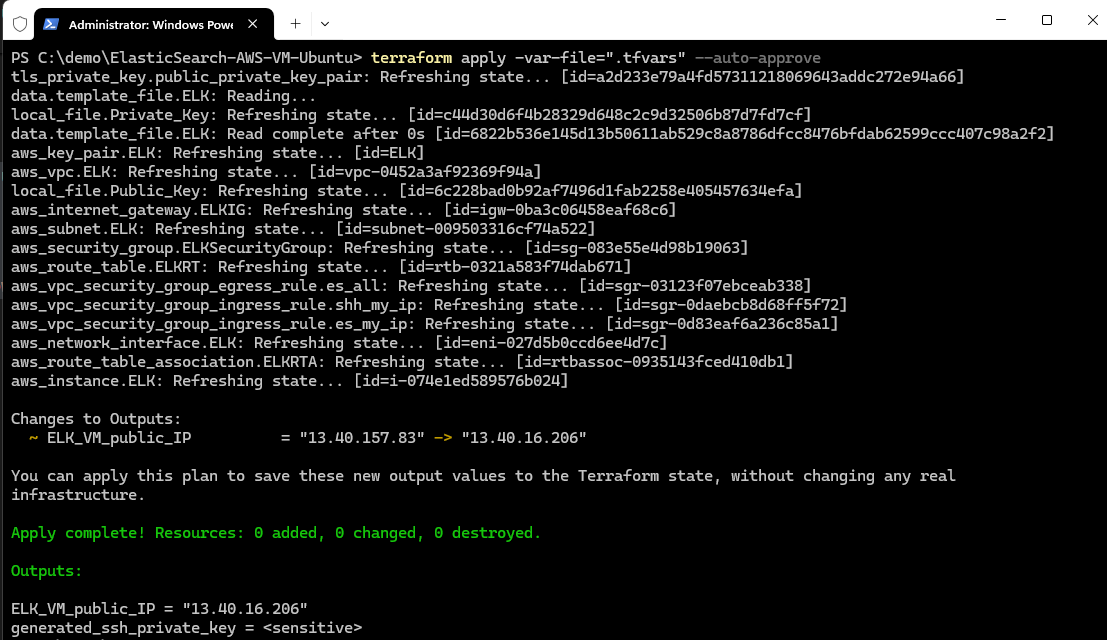
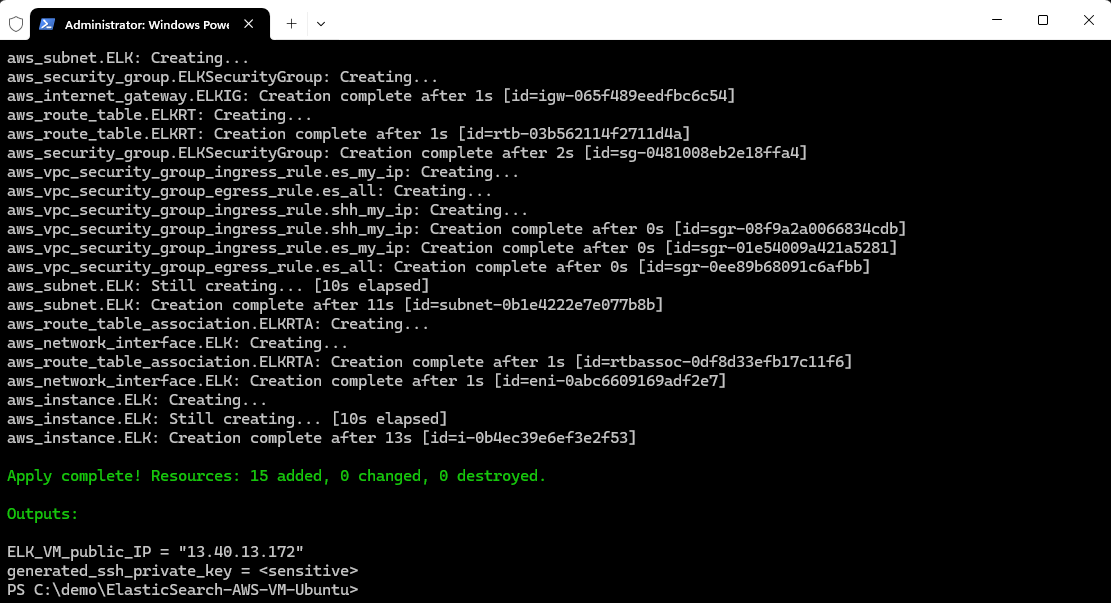
Update Readme

Changed region(s): [[0.0, 0.0, 1.0, 1.0]]

diff --git a/README.md b/README.md
@@ -9,11 +9,10 @@
 ## Deploy Using the Terraform CLI
 
 ### Clone the repository
-Now, you'll want a local copy of this repo.  You can make that with the commands:
+Start with a local copy of this repo.  You can make that with the commands:
 
     git clone https://github.com/CalGrimes/ElasticSearch-AWS-VM-Ubuntu.git
     cd ElasticSearch-AWS-VM-Ubuntu
-    ls
 
 ### Initialize the deployment
 
@@ -44,45 +43,104 @@ That gives:
 
 ![](./images/terraform-plan.png)
 
-If that's good, we can go ahead and apply the deploy:
+If that's good, we can go ahead and apply the deployment with:
 
     terraform apply -var-file="terraform.tfvars"
 
 You'll need to enter `yes` when prompted.  Once complete, you'll see something like this:
 
-![](../images/terraform-apply.png)
+![](./images/terraform-apply.png)
 
-When the apply is complete, the infrastructure will be deployed, but cloud-init scripts will still be running.  Those will wrap up asynchronously.  So, it'll be a few more minutes before your cluster is accessible.  Now is a good time to get a coffee.
+When the apply is complete, the infrastructure will be deployed, but cloud-init scripts will still be running.  Those will wrap up asynchronously. So, it'll be a few more minutes before your cluster is accessible.  Now is a good time to get a coffee.
 
+### Configuring Elasticsearch and Kibana
+Once the module is deployed and you have waited for a few minutes, you can connect to the ELK VM and configure Elasticsearch and Kibana.
 
-### Connect to Elasticsearch and Kibana
-When the module is deployed, you will see an output that shows the ELK VM public IP and generated ssh private key. The private key will be saved locally as ELK_private_key.pem. You can use this key to SSH into the ELK VM.
+The output will show the ELK VM public IP and the generated ssh private key. The private key will be saved locally as ELK_private_key.pem. You can use this key to SSH into the ELK VM.
 
 Now let's build SSH tunnels for each product of ELK:
 
-`ELK_VM_public_IP = 13.40.16.206`
+`ELK_VM_public_IP = 13.40.13.172`
 
 Create an SSH tunnel for ports `9200` and `5601` with the following command:
 
-`ssh -i ELK_private_key.pem -L 9200:localhost:9200 -L 5601:localhost:5601 ubuntu@<ELK_VM_public_IP>`
+```
+ssh -i ELK_private_key.pem -L 9200:localhost:9200 -L 5601:localhost:5601 ubuntu@<ELK_VM_public_IP>
+```
 
-![](../images/ssh-tunnel.png)
+Once you are connected to the ELK VM. Ensure the cloud-init scripts have completed by checking status of elastic and kibana services with the following command:
+```
+systemctl status elasticsearch kibana
+```
+![](./images/elastic-kibana-status.png)
 
+Now you need to configure the network host in the Elasticsearch and Kibana configuration files. Run the following command to open the elasticsearch configuration file:
+
+```
+sudo vi /etc/elasticsearch/elasticsearch.yml
+```
+![](./images/elastic-config.png)
+
+Add the following line to the configuration file:
+
+`network.host: 0.0.0.0`
+
+Save and exit the file.
+
+Now open the kibana configuration file:
+```
+sudo vi /etc/kibana/kibana.yml
+```
+![](./images/kibana-config.png)
+
+Add the following line to the configuration file:
+`server.host: "0.0.0.0"`
+
+Save and exit the file.
+
+Now restart the Elasticsearch and Kibana services with the following command:
+
+```
+sudo systemctl restart elasticsearch kiabana
+```
+
+
+
+
+### Connect to Elasticsearch and Kibana
 Now you can browse to (http://localhost:9200) for Elasticsearch, and (http://localhost:5601) for Kibana.
 
-![](../images/elasticsearch.png)
+![](./images/elasticsearch.png)
 
-![](../images/kibana.png)
+To fetch your enrollment token, you can run the following command:
 
-### Access the Dashboards
-If you don't have an enrollment token, you can create one by clicking 'Create manually' and following the instructions.
+```
+sudo /usr/share/elasticsearch/bin/elasticsearch-create-enrollment-token --scope kibana
+```
 
+Paste the enrollment token and click 'Configure Elastic'
+
+![](./images/kibana-verification.png)
+
+Next, collect the Kibana verfication code by running the following command:
+
+```
+sudo /usr/share/kibana/bin/kibana-verification-code
+```
+
+Now wait for Elastic to set everything up. 
 ![](./images/starting-elastic.png)
 
-### SSH to a Node
-These machines are usingUbuntu.  The default login is ubuntu. You can SSH into the machine with a command like this:
+You'll then be presented with a login screen. The superuser is elastic. 
+![](./images/elastic-login.png)
+To retrieve the password, you can run the following command:
 
-    ssh -i ELK_private_key ubuntu@<ELK_VM_public_IP>
+```
+sudo /usr/share/elasticsearch/bin/elasticsearch-reset-password -u elastic
+```
+
+At last you can login to Kibana with the superuser credentials and start exploring the dashboard.
+![](./images/dashboard.png)
 
 ## View the Cluster in the Console
 You can also login to the web console [here](https://eu-west-2.console.aws.amazon.com/ec2/home?region=eu-west-2#Instances:) to view the IaaS that is running the cluster.
